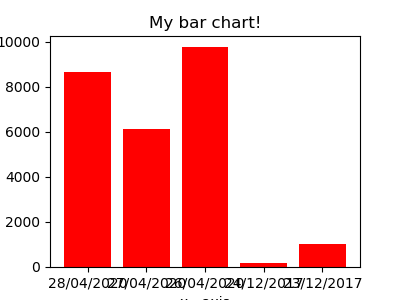
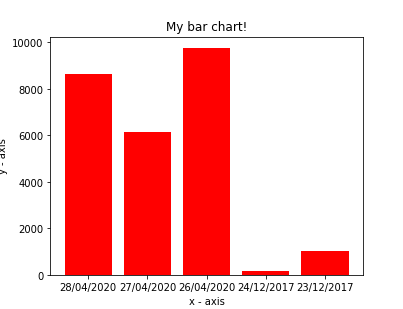
adding imagine

diff --git a/texttest.py b/texttest.py
@@ -51,7 +51,7 @@ tick_label = dates
 # labels for bars 
 #tick_label = ['one', 'two', 'three', 'four', 'five'] 
 
-plt.figure(figsize=(4, 3), dpi=100)
+plt.figure(figsize=(5.6, 4.3), dpi=72)
 # plotting a bar chart 
 plt.bar(left, height, tick_label = tick_label, 
         width = 0.8, color = ['red']) 
@@ -71,7 +71,7 @@ plt.savefig('test.png')
 #plt.savefig(buf, format='png')
 #buf.seek(0)
 #im = Image.open(buf)
-img = Image.open("test.png")
+img = Image.open("resources/InkywHAT-400x300-bw.png")
 inky_display.set_image(img)
 inky_display.show()
 
